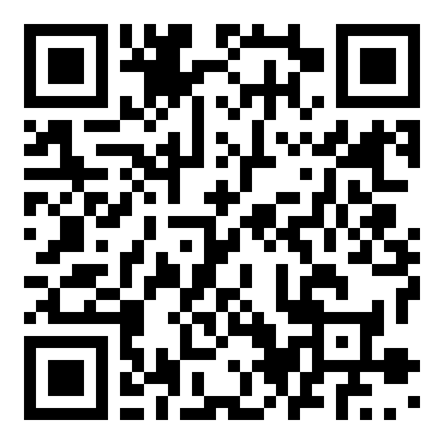
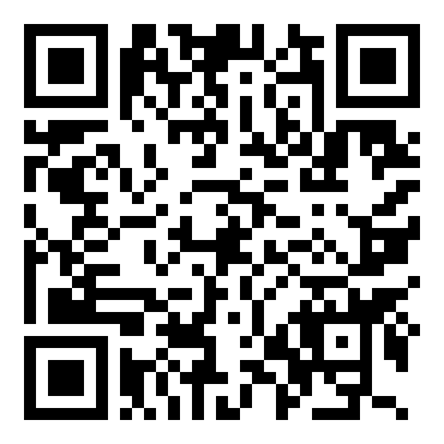
update: 下载版本更新至 v3.10.6

Changed region(s): [[0.0293, 0.0293, 0.9662, 0.7027], [0.2635, 0.732, 0.9662, 0.9662]]

diff --git a/index.html b/index.html
@@ -20,7 +20,7 @@
   imagesrcset="assets/img/hero-green-800.webp 800w, assets/img/hero-green.webp 1600w"
   imagesizes="(max-width: 767px) calc(100vw - 32px), 640px">
 <script type="application/ld+json">
-{"@context":"https://schema.org","@type":"SoftwareApplication","name":"护花使者","operatingSystem":"Android 8.0+","applicationCategory":"MobileApplication","softwareVersion":"v3.10.5","fileSize":"85.7MB","downloadUrl":"http://121.199.75.235:8080/app/huhuashizhe_v3.10.5.apk","description":"护花使者把 1 kHz 飞控、5 MP 视觉和 39 类病虫害模型装进一架植保无人机。","offers":{"@type":"Offer","price":"0","priceCurrency":"CNY"}}
+{"@context":"https://schema.org","@type":"SoftwareApplication","name":"护花使者","operatingSystem":"Android 8.0+","applicationCategory":"MobileApplication","softwareVersion":"v3.10.6","fileSize":"85.7MB","downloadUrl":"http://121.199.75.235:8080/app/huhuashizhe_v3.10.6.apk","description":"护花使者把 1 kHz 飞控、5 MP 视觉和 39 类病虫害模型装进一架植保无人机。","offers":{"@type":"Offer","price":"0","priceCurrency":"CNY"}}
 </script>
 <style>
 :root {
@@ -490,7 +490,7 @@ html.js .result-card.is-in .result-bar i { width: var(--w); }
         </span>
         护花使者
       </a>
-      <span class="nav__ver">v3.10.5</span>
+      <span class="nav__ver">v3.10.6</span>
     </div>
     <nav class="nav__links" aria-label="主导航">
       <a class="nav__link" href="#problem">问题</a>
@@ -500,7 +500,7 @@ html.js .result-card.is-in .result-bar i { width: var(--w); }
       <a class="nav__link" href="#app">App</a>
       <a class="nav__link" href="#progress">进展</a>
     </nav>
-    <a class="btn btn--primary btn--small" href="http://121.199.75.235:8080/app/huhuashizhe_v3.10.5.apk" download>下载 App
+    <a class="btn btn--primary btn--small" href="http://121.199.75.235:8080/app/huhuashizhe_v3.10.6.apk" download>下载 App
       <svg viewBox="0 0 14 14" fill="none" aria-hidden="true"><path d="M7 1.5v7M4.2 6l2.8 3 2.8-3M2 11.5h10" stroke="currentColor" stroke-width="1.3" stroke-linecap="round" stroke-linejoin="round"/></svg>
     </a>
     <button class="nav__toggle" type="button" aria-expanded="false" aria-controls="mobile-menu" aria-label="打开菜单">
@@ -515,7 +515,7 @@ html.js .result-card.is-in .result-bar i { width: var(--w); }
       <a class="nav__link" href="#hardware" style="padding:12px 0;">硬件</a>
       <a class="nav__link" href="#app" style="padding:12px 0;">App</a>
       <a class="nav__link" href="#progress" style="padding:12px 0;">进展</a>
-      <a class="btn btn--primary" href="http://121.199.75.235:8080/app/huhuashizhe_v3.10.5.apk" download style="margin-top:12px;">下载 Android App</a>
+      <a class="btn btn--primary" href="http://121.199.75.235:8080/app/huhuashizhe_v3.10.6.apk" download style="margin-top:12px;">下载 Android App</a>
     </nav>
   </div>
 </header>
@@ -530,13 +530,13 @@ html.js .result-card.is-in .result-bar i { width: var(--w); }
         <h1 id="hero-h" data-reveal style="--d:.08s">让每一片叶子，<br><em>都被看见。</em></h1>
         <p class="hero__lead" data-reveal style="--d:.16s">护花使者把 1 kHz 飞控、5 MP 视觉和 39 类病虫害模型装进一架植保无人机。发现、判断、喷洒，在同一次飞行里完成。</p>
         <div class="hero__actions" data-reveal style="--d:.24s">
-          <a class="btn btn--primary" href="http://121.199.75.235:8080/app/huhuashizhe_v3.10.5.apk" download>下载 Android App
+          <a class="btn btn--primary" href="http://121.199.75.235:8080/app/huhuashizhe_v3.10.6.apk" download>下载 Android App
             <svg viewBox="0 0 14 14" fill="none" aria-hidden="true"><path d="M7 1.5v7M4.2 6l2.8 3 2.8-3M2 11.5h10" stroke="currentColor" stroke-width="1.3" stroke-linecap="round" stroke-linejoin="round"/></svg>
           </a>
           <a class="btn btn--ghost" href="#system">看它如何工作</a>
         </div>
         <div class="hero__meta" data-reveal style="--d:.3s">
-          <span>版本 <b>v3.10.5</b></span><span>大小 <b>85.7 MB</b></span><span>系统 <b>Android 8.0+</b></span>
+          <span>版本 <b>v3.10.6</b></span><span>大小 <b>85.7 MB</b></span><span>系统 <b>Android 8.0+</b></span>
         </div>
       </div>
       <div class="hero__visual" data-reveal style="--d:.18s">
@@ -551,9 +551,9 @@ html.js .result-card.is-in .result-bar i { width: var(--w); }
           <div class="download-card__head"><strong>下载 App</strong><span>ANDROID</span></div>
           <div class="download-card__body">
             <img class="download-card__qr" src="assets/img/download-qr.png" alt="扫码下载护花使者 Android App" width="444" height="444">
-            <p><b>扫码下载</b>v3.10.5 · 85.7 MB<br>同一 Wi-Fi 扫码可直接下载</p>
+            <p><b>扫码下载</b>v3.10.6 · 85.7 MB<br>同一 Wi-Fi 扫码可直接下载</p>
           </div>
-          <a class="btn btn--primary btn--small" href="http://121.199.75.235:8080/app/huhuashizhe_v3.10.5.apk" download>直接下载 APK</a>
+          <a class="btn btn--primary btn--small" href="http://121.199.75.235:8080/app/huhuashizhe_v3.10.6.apk" download>直接下载 APK</a>
           <p class="download-card__hint">iOS 内测中 · 暂未开放</p>
         </aside>
       </div>
@@ -739,8 +739,8 @@ html.js .result-card.is-in .result-bar i { width: var(--w); }
         </div>
         <div class="download-strip" data-reveal>
           <img src="assets/img/download-qr.png" alt="扫码下载护花使者 Android App" width="444" height="444" loading="lazy" decoding="async">
-          <div><b>扫码下载 Android 版</b><p>v3.10.5 · 85.7 MB · 同一 Wi-Fi 可直接下载</p></div>
-          <a class="btn btn--primary btn--small" href="http://121.199.75.235:8080/app/huhuashizhe_v3.10.5.apk" download>下载 APK</a>
+          <div><b>扫码下载 Android 版</b><p>v3.10.6 · 85.7 MB · 同一 Wi-Fi 可直接下载</p></div>
+          <a class="btn btn--primary btn--small" href="http://121.199.75.235:8080/app/huhuashizhe_v3.10.6.apk" download>下载 APK</a>
         </div>
       </div>
     </div>
@@ -790,9 +790,9 @@ html.js .result-card.is-in .result-bar i { width: var(--w); }
         <div class="download-card__head"><strong>下载 App</strong><span>ANDROID</span></div>
         <div class="download-card__body">
           <img class="download-card__qr" src="assets/img/download-qr.png" alt="扫码下载护花使者 Android App" width="444" height="444" loading="lazy" decoding="async">
-          <p><b>扫码下载</b>v3.10.5 · 85.7 MB<br>同一 Wi-Fi 扫码可直接下载</p>
+          <p><b>扫码下载</b>v3.10.6 · 85.7 MB<br>同一 Wi-Fi 扫码可直接下载</p>
         </div>
-        <a class="btn btn--primary btn--small" href="http://121.199.75.235:8080/app/huhuashizhe_v3.10.5.apk" download>直接下载 APK</a>
+        <a class="btn btn--primary btn--small" href="http://121.199.75.235:8080/app/huhuashizhe_v3.10.6.apk" download>直接下载 APK</a>
         <p class="download-card__hint">iOS 内测中 · 暂未开放</p>
       </div>
     </div>
@@ -809,8 +809,8 @@ html.js .result-card.is-in .result-bar i { width: var(--w); }
 </button>
 
 <div class="dl-bar" id="dl-bar">
-  <div class="dl-bar__info"><b>护花使者 v3.10.5</b><p>ANDROID 8.0+ · 85.7 MB</p></div>
-  <a class="btn btn--lime" href="http://121.199.75.235:8080/app/huhuashizhe_v3.10.5.apk" download>下载</a>
+  <div class="dl-bar__info"><b>护花使者 v3.10.6</b><p>ANDROID 8.0+ · 85.7 MB</p></div>
+  <a class="btn btn--lime" href="http://121.199.75.235:8080/app/huhuashizhe_v3.10.6.apk" download>下载</a>
 </div>
 
 <script>
